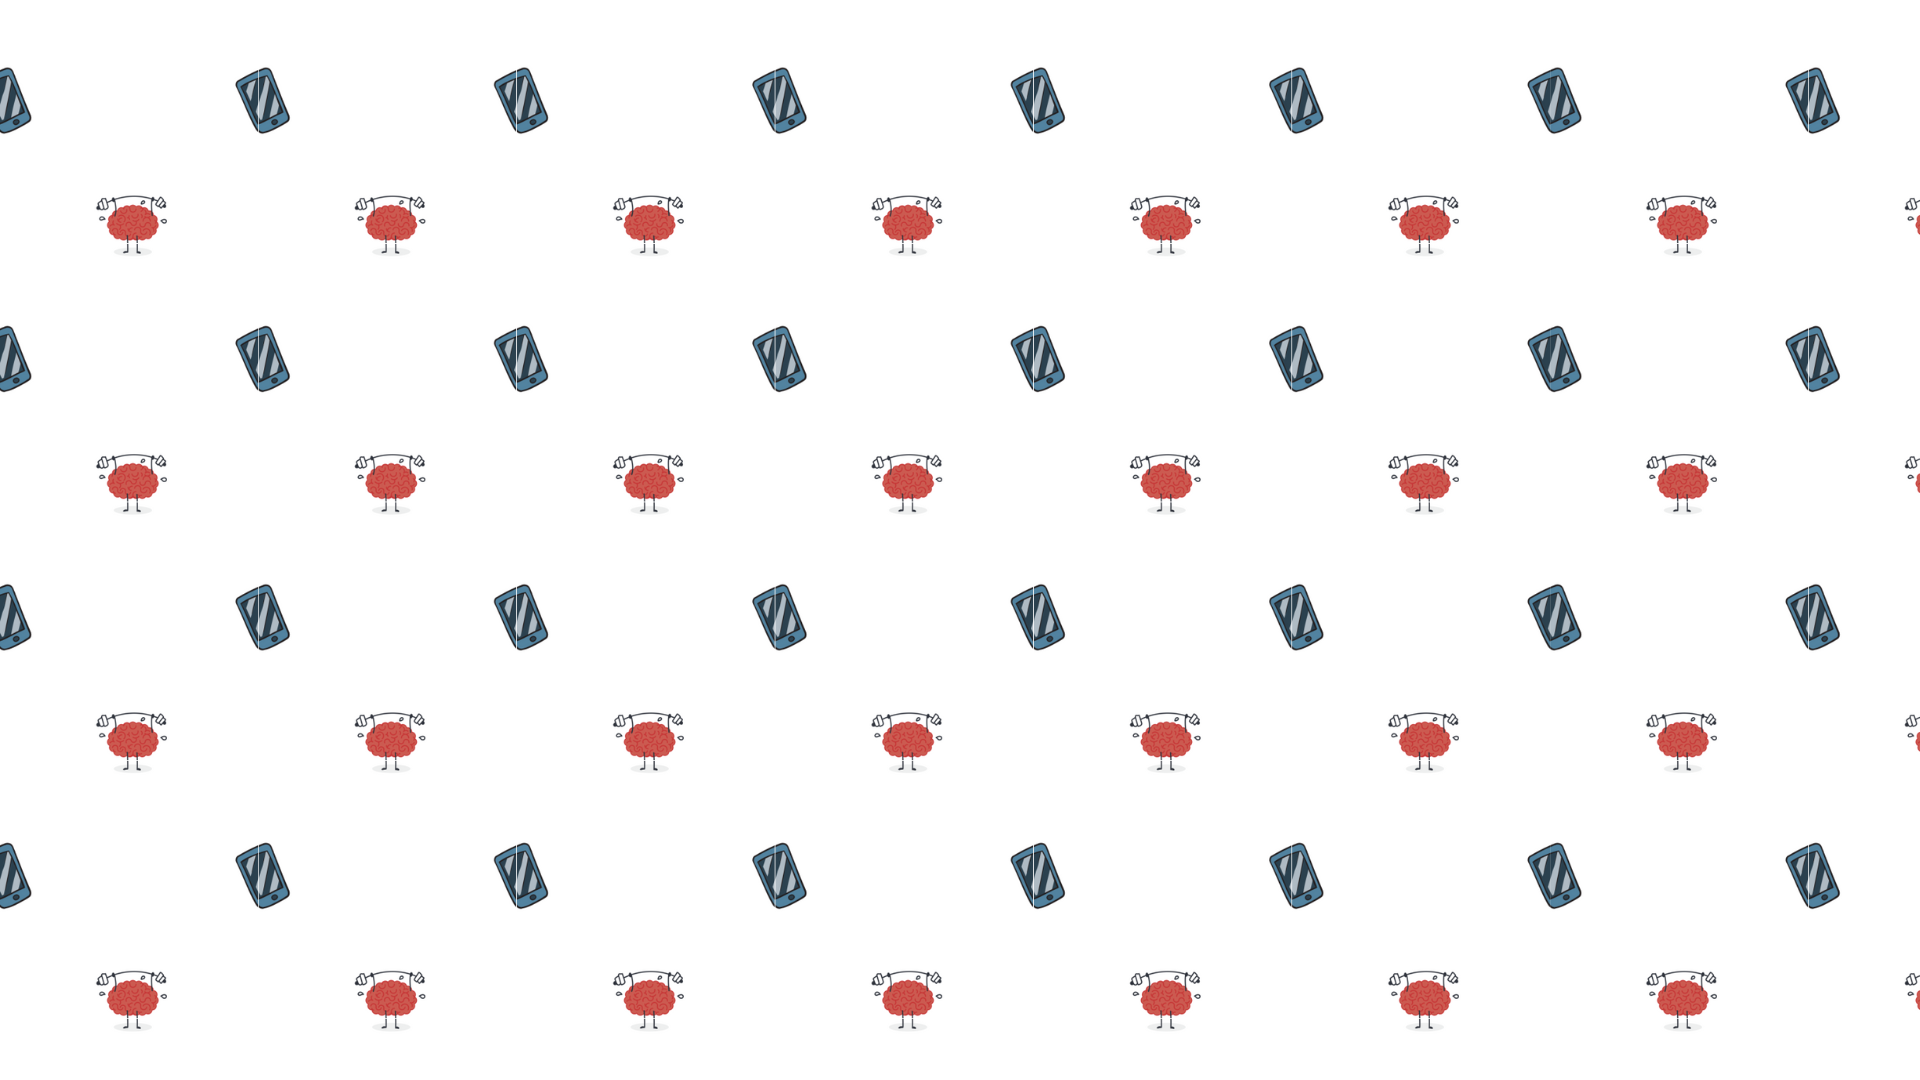
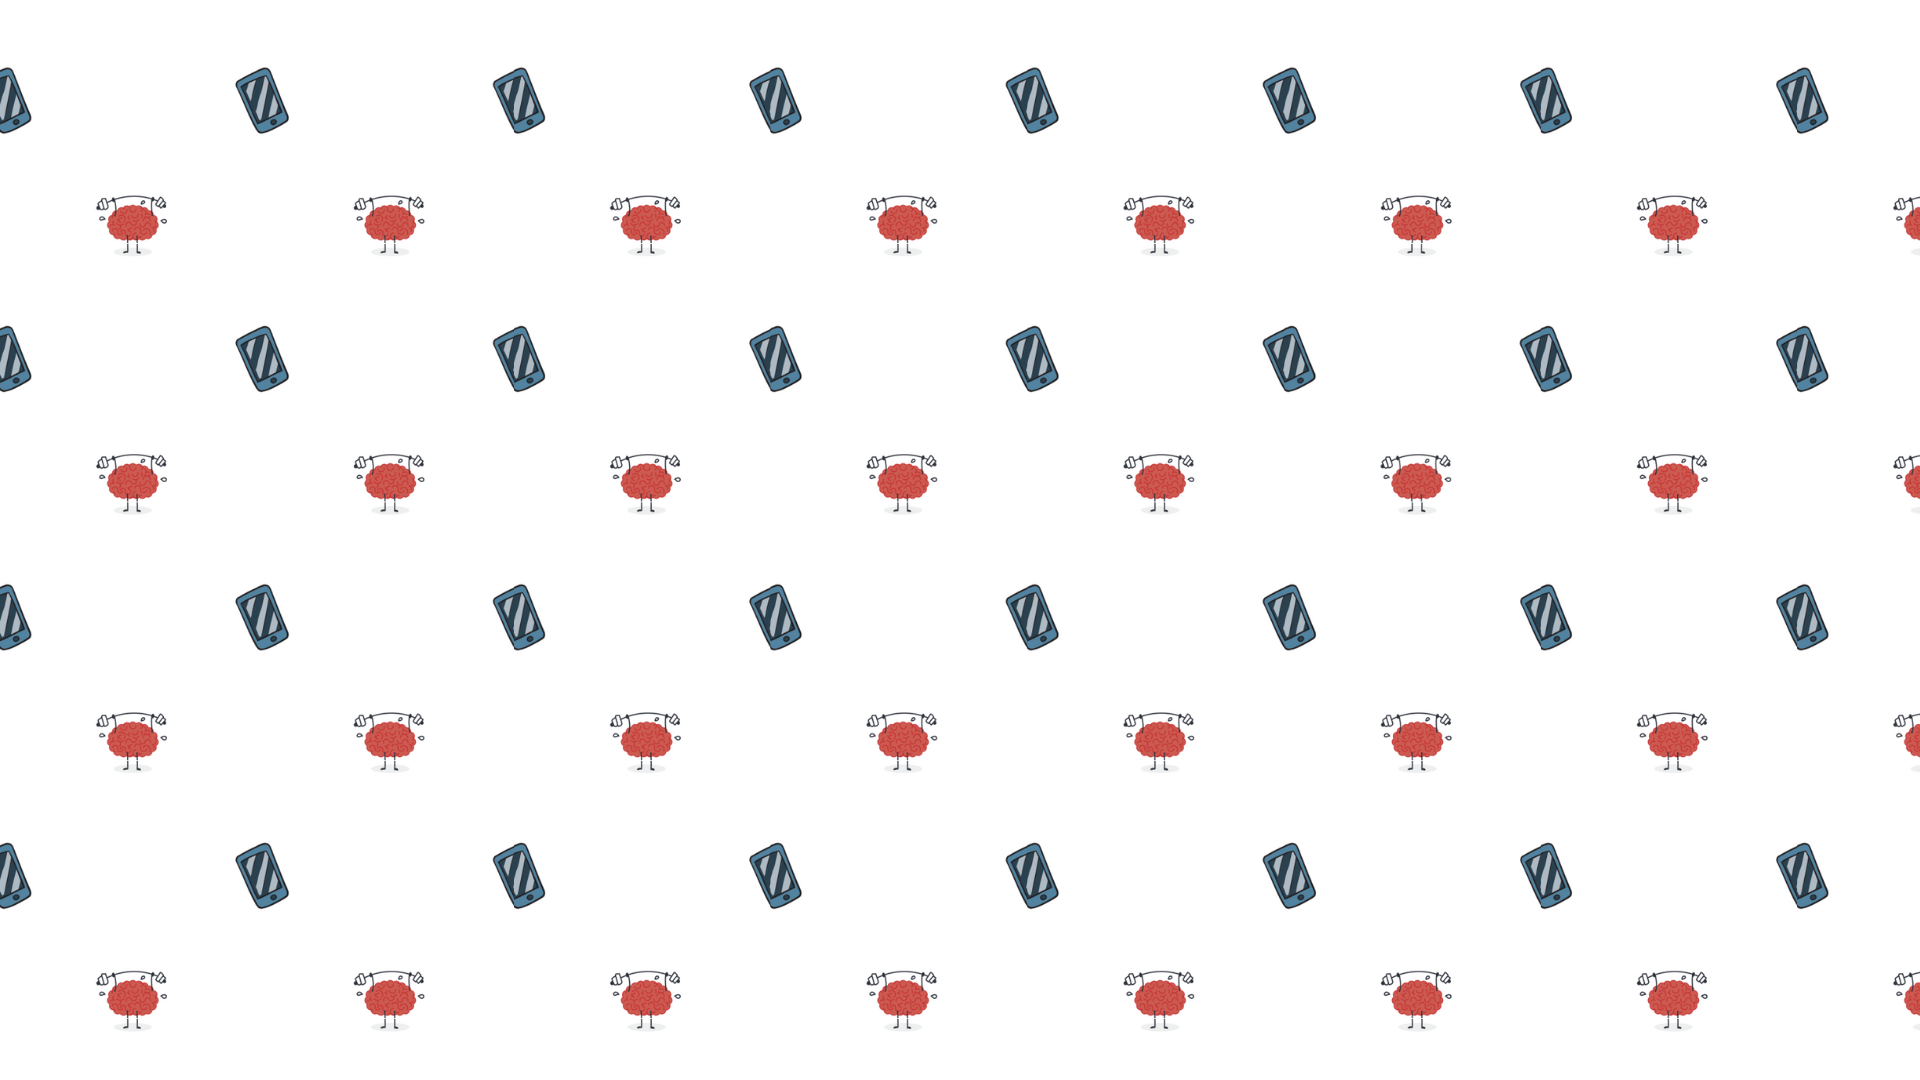
messed with the backgrounds

diff --git a/css/style.css b/css/style.css
@@ -111,15 +111,24 @@ ul li::before {
 
 /* Title Page */
 #introduction {
-    background-image: url('../images/gathering.jpg'); /* Add cloud.jpg as background */
+    /* background-image: url('../images/gathering.jpg'); Add cloud.jpg as background */
+    background-image: url('../images/wallpapers/ford.png');
 }
 
 #zoom {
-    background-image: url('../images/zoom.jpg'); /* Add cloud.jpg as background */
+    /* background-image: url('../images/zoom.jpg');  */
+    /* background-image: url('../images/wallpapers/zoom.png'); */
+    background-image: url('../images/wallpapers/zoom colorful.png');
 }
 
 #network {
-    background-image: url('../images/bed.jpg'); /* Add cloud.jpg as background */
+    /* background-image: url('../images/bed.jpg'); Add cloud.jpg as background */
+    background-image: url('../images/wallpapers/wallpaper phone brain.png');
+}
+
+#emotion {
+    /* background-image: url('../images/bed.jpg'); Add cloud.jpg as background */
+    background-image: url('../images/wallpapers/social media.png');
 }
 
 /* Title Page */
@@ -129,7 +138,9 @@ ul li::before {
     align-items: center;
     justify-content: center;
     height: 100vh;
-    background-image: url('../images/cloud.jpg'); /* Add cloud.jpg as background */
+    /* background-image: url('../images/cloud.jpg');  */
+    background-image: url('../images/wallpapers/cover 1.png');
+    /* background-image: url('../images/wallpapers/cover 2.png'); */
     background-size: cover;
     background-position: center;
 }

diff --git a/index.html b/index.html
@@ -25,11 +25,20 @@
 
 <div class="main-container" id="fullpage">
     <!-- Slide: Title Page -->
-    <div class="section">
+    <!-- <div class="section">
         <div class="title-page">
             <div class="title-box">
                 <h1>Smartphones & Emotional Wellbeing</h1>
                 <p>Exploring the hidden connection between our devices and our emotions.</p>
+            </div>
+        </div>
+    </div> -->
+
+    <div class="section">
+        <div class="title-page">
+            <div class="title-box">
+                <!-- <h1>Smartphones & Emotional Wellbeing</h1>
+                <p>Exploring the hidden connection between our devices and our emotions.</p> -->
             </div>
         </div>
     </div>
@@ -194,7 +203,7 @@
     </div>
 
     <!-- Slide: Emotional Dashboard Visualization -->
-    <div class="section">
+    <div class="section" id="emotion">
         <div class="container">
             <h1 style="text-align: center;">How Social Media Shapes Our Emotions</h1>
             <div class="row d-flex align-items-start">
